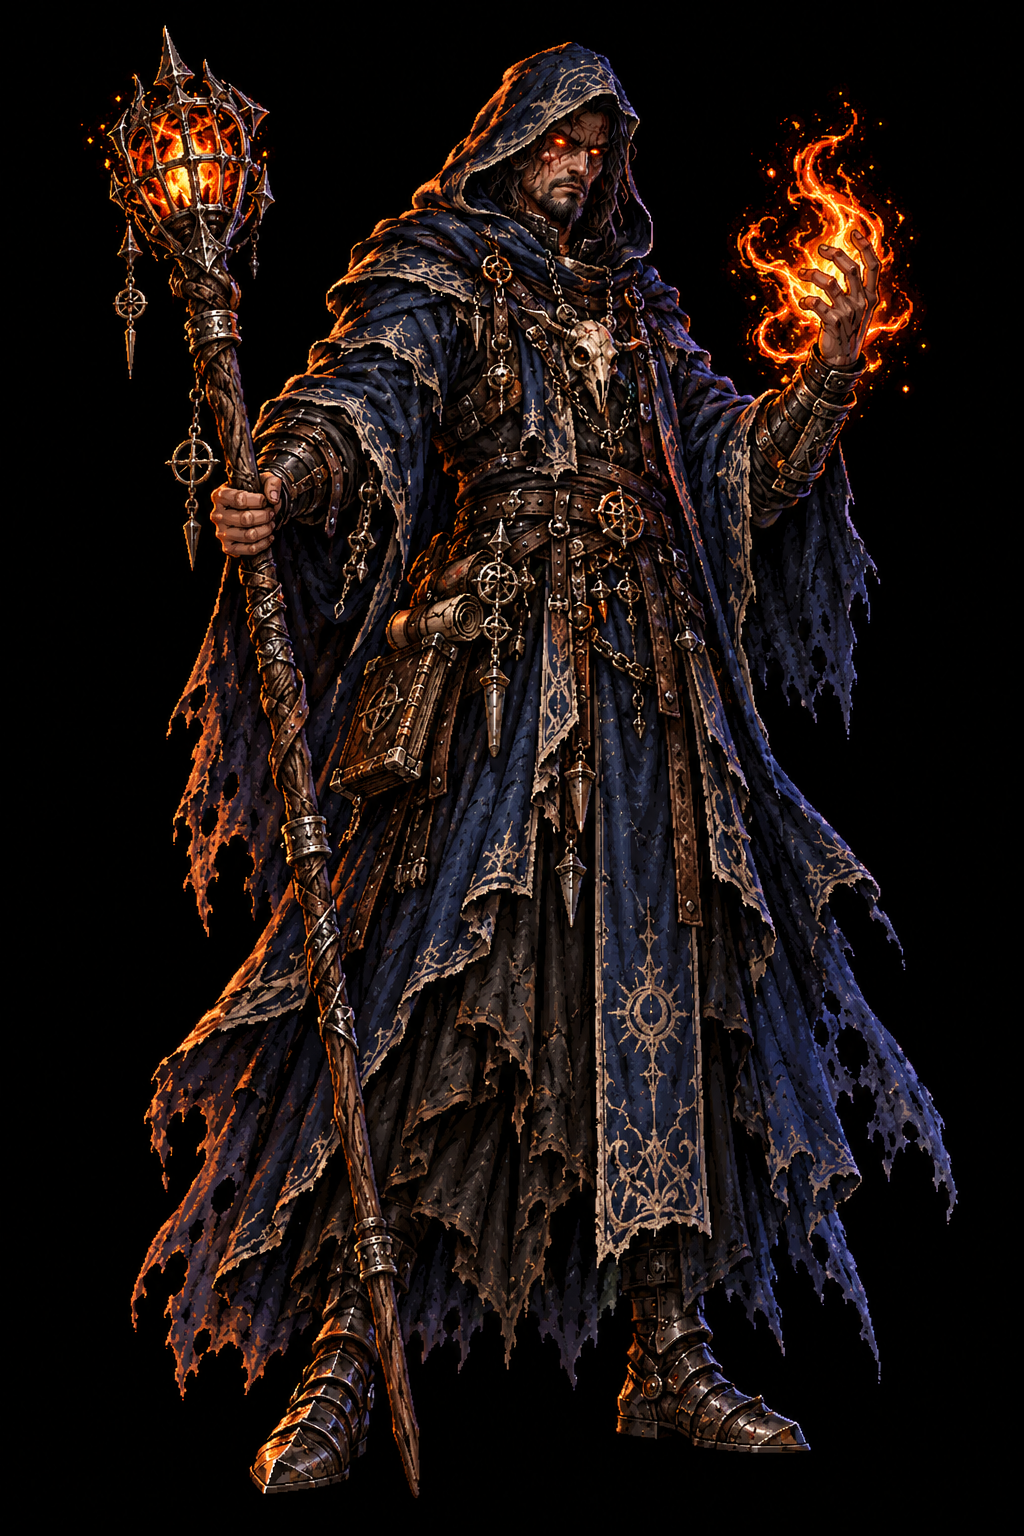
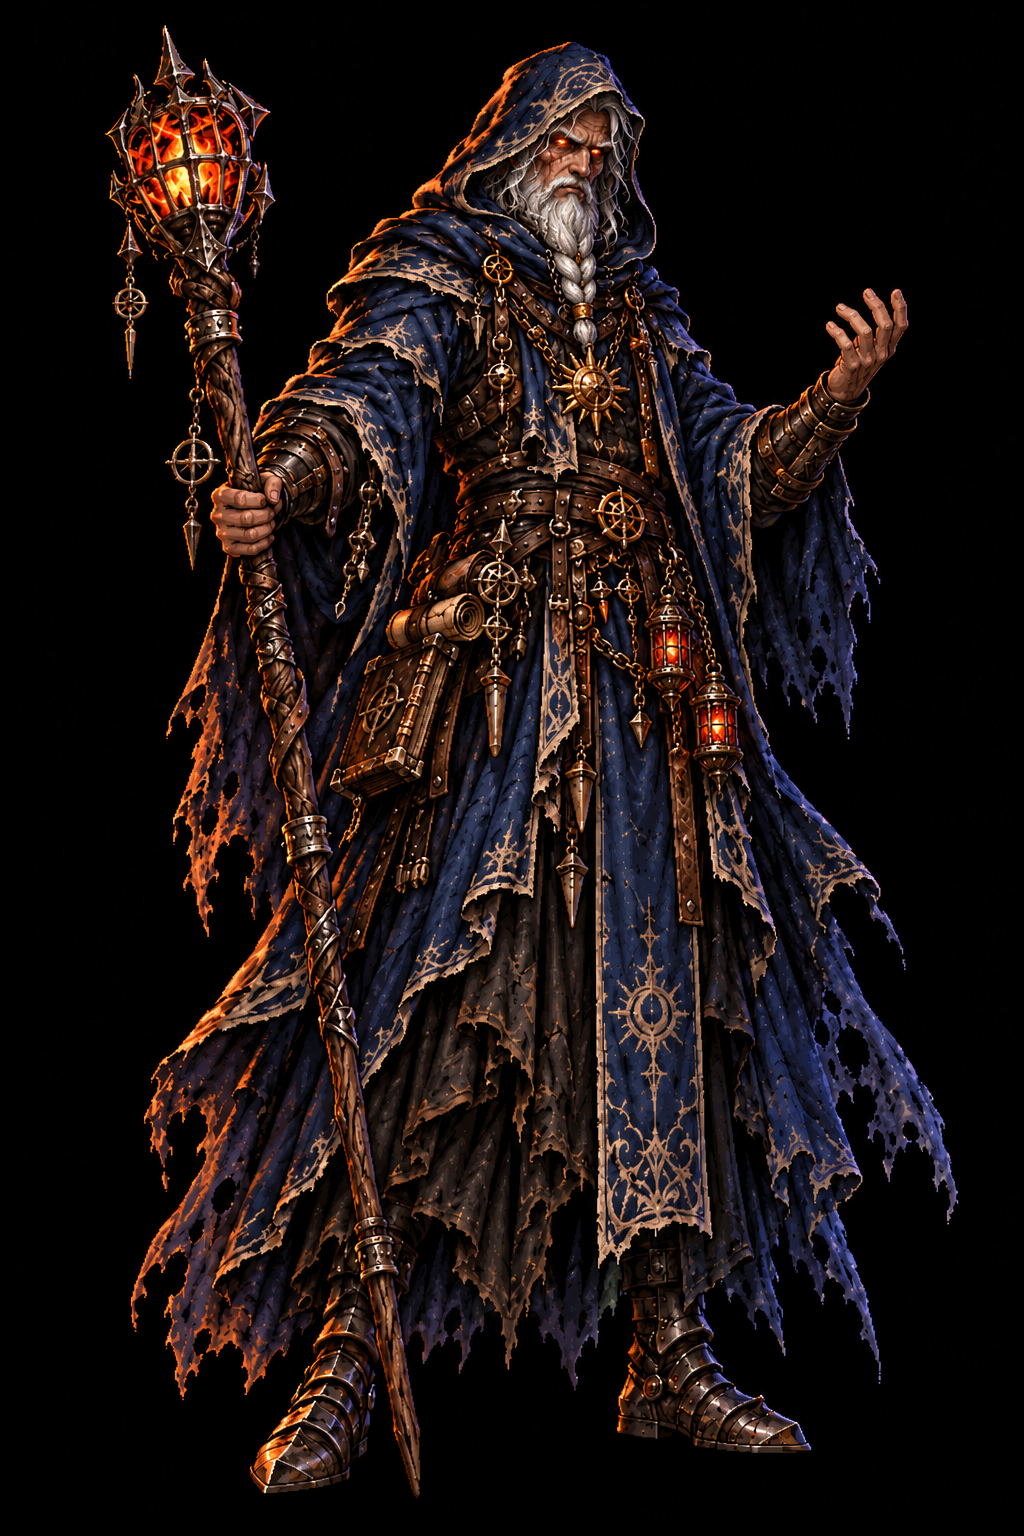
Rogue (Vexa) strips and view, new hero portraits, steel title lettering, hand-off notes for the cloud

diff --git a/src/scenes/HUDScene.js b/src/scenes/HUDScene.js
@@ -12,7 +12,7 @@
 
 import { SETTINGS } from '../config/settings.js';
 import { HUD_ART } from '../view/hudArt.js';
-import { FONT, epicFill } from '../view/fonts.js';
+import { FONT, epicFill, steelFill } from '../view/fonts.js';
 import { DeathScreen } from '../view/DeathScreen.js';
 
 const SERIF = FONT.ui;
@@ -92,7 +92,7 @@ export class HUDScene extends Phaser.Scene {
       .setOrigin(1, 0.5).setStroke('#000000', 6).setVisible(false);
     epicFill(this.go, ['#fff2b0', '#e0a530', '#6a3c08']);
     // section title card (big, centre, fades)
-    this.card = this.add.text(W / 2, H * 0.36, '', { fontFamily: FONT.display, fontSize: '46px', align: 'center' })
+    this.card = this.add.text(W / 2, H * 0.36, '', { fontFamily: FONT.title, fontSize: '48px', align: 'center' })
       .setOrigin(0.5).setStroke('#0a0000', 7).setAlpha(0).setDepth(50);
     this.card.setLetterSpacing?.(4);
     this.cardSub = this.add.text(W / 2, H * 0.36 + 42, '', { fontFamily: FONT.ui, fontSize: '16px', color: '#d8c8a8', align: 'center' })
@@ -110,7 +110,7 @@ export class HUDScene extends Phaser.Scene {
   sectionCard(index, section) {
     const roman = ['I', 'II', 'III', 'IV', 'V', 'VI'][index] ?? `${index + 1}`;
     this.card.setText(section.name);
-    epicFill(this.card, ['#ff7a5a', '#d0101a', '#5a0006']);
+    steelFill(this.card, 7);
     this.cardSub.setText(`${roman}  ·  ${section.objective}`);
     this.objective.setText(`▸ ${section.objective}`);
     this.showGo(false);
@@ -196,10 +196,10 @@ export class HUDScene extends Phaser.Scene {
       const W = SETTINGS.width;
       const H = SETTINGS.height;
       const dim = this.add.rectangle(0, 0, W, H, 0x050000, 0.72).setOrigin(0).setInteractive(); // swallows clicks
-      const title = this.add.text(W / 2, H * 0.24, 'PAUSED', { fontFamily: FONT.display, fontSize: '60px' })
+      const title = this.add.text(W / 2, H * 0.24, 'PAUSED', { fontFamily: FONT.title, fontSize: '64px' })
         .setOrigin(0.5).setStroke('#0a0000', 8);
       title.setLetterSpacing?.(6);
-      epicFill(title, ['#ff7a5a', '#d0101a', '#5a0006']);
+      steelFill(title);
       const menu = this.add.text(W / 2, H * 0.42,
         'P / ENTER  —  RESUME\nR  —  RESTART THE STAGE\nESC  —  CHARACTER SELECT',
         { fontFamily: FONT.ui, fontSize: '18px', color: '#f0e0c0', align: 'center', lineSpacing: 10 })

diff --git a/src/scenes/TitleScene.js b/src/scenes/TitleScene.js
@@ -10,7 +10,7 @@ import { SETTINGS } from '../config/settings.js';
 import { InputManager } from '../core/InputManager.js';
 import { playMusic, toggleMute } from '../core/Music.js';
 import { playSfx } from '../core/Sfx.js';
-import { FONT, epicFill } from '../view/fonts.js';
+import { FONT, epicFill, steelFill } from '../view/fonts.js';
 import { hostRoom, joinRoom, newCode } from '../net/Link.js';
 
 export class TitleScene extends Phaser.Scene {
@@ -49,9 +49,9 @@ export class TitleScene extends Phaser.Scene {
       }
     } else {
       // no cover art (it failed to load): the name on black, so the game still starts
-      const t = this.add.text(W / 2, H * 0.4, 'BLOOD AXE', { fontFamily: FONT.display, fontSize: '80px' })
+      const t = this.add.text(W / 2, H * 0.4, 'BLOOD AXE', { fontFamily: FONT.title, fontSize: '84px' })
         .setOrigin(0.5).setStroke('#0a0000', 9);
-      epicFill(t, ['#ff7a5a', '#d0101a', '#6a0008', '#200002']);
+      steelFill(t, 9);
     }
 
     // embers drifting up through it
@@ -128,8 +128,8 @@ export class TitleScene extends Phaser.Scene {
     const H = SETTINGS.height;
     const L = this.lobby = { state: 'menu', code: '', job: null };
     L.dim = this.add.rectangle(0, 0, W, H, 0x050000, 0.82).setOrigin(0).setDepth(100).setInteractive();
-    L.title = this.add.text(W / 2, H * 0.2, 'ONLINE CO-OP', { fontFamily: FONT.display, fontSize: '44px' }).setOrigin(0.5).setStroke('#0a0000', 7).setDepth(101);
-    epicFill(L.title, ['#ff7a5a', '#d0101a', '#5a0006']);
+    L.title = this.add.text(W / 2, H * 0.2, 'ONLINE CO-OP', { fontFamily: FONT.title, fontSize: '46px' }).setOrigin(0.5).setStroke('#0a0000', 7).setDepth(101);
+    steelFill(L.title, 7);
     L.body = this.add.text(W / 2, H * 0.47, '', { fontFamily: FONT.ui, fontSize: '20px', color: '#f0e0c0', align: 'center', lineSpacing: 12 }).setOrigin(0.5).setStroke('#000000', 4).setDepth(101);
     L.big = this.add.text(W / 2, H * 0.47, '', { fontFamily: FONT.display, fontSize: '72px' }).setOrigin(0.5).setStroke('#0a0000', 8).setDepth(101);
     L.note = this.add.text(W / 2, H * 0.78, '', { fontFamily: FONT.body, fontSize: '16px', color: '#cdb391', align: 'center', lineSpacing: 6 }).setOrigin(0.5).setStroke('#000000', 3).setDepth(101);

diff --git a/src/data/heroStrips.js b/src/data/heroStrips.js
@@ -35,16 +35,16 @@ export const HERO_STRIPS = {
     target: 92, // her low guard stance
     needs: ['run', 'combo1', 'combo2', 'combo3', 'combo4', 'viper', 'moves', 'dodge', 'air', 'react'],
     strips: {
-      run: strip('rogue', 'run', 8, { align: 'median', ground: 'drawn' }),
+      run: strip('rogue', 'run', 8, { align: 'median', ground: 'drawn', target: 90 }),
       combo1: strip('rogue', 'combo1', 4), // guard, cocked, slash, follow-through
       combo2: strip('rogue', 'combo2', 4),
       combo3: strip('rogue', 'combo3', 4),
-      combo4: strip('rogue', 'combo4', 4, { ground: 'drawn' }), // low coil, turn, rising strike (airborne), landing
-      viper: strip('rogue', 'viper', 6),   // crouch, burst, crossing cut, slide, low finish, guard
-      moves: strip('rogue', 'moves', 8),   // kick x3, block, knife draw, knife thrown, mine set, spring away
-      dodge: strip('rogue', 'dodge', 8, { ground: 'drawn' }), // forward roll x4, handspring x4
-      air: strip('rogue', 'air', 8, { ground: 'drawn' }),     // take-off, tuck, vault plant, launched, fan, dive, strike, landing
-      react: strip('rogue', 'react', 8),   // hit, stumble, flying, lying, roll up, kick-through, spring, stance
+      combo4: strip('rogue', 'combo4', 4, { ground: 'drawn', ref: 1, target: 80 }), // low coil, turn, rising strike (airborne), landing
+      viper: strip('rogue', 'viper', 6, { ref: 5 }),   // crouch, burst, crossing cut, slide, low finish, guard
+      moves: strip('rogue', 'moves', 8, { ref: 2 }),   // kick x3, block, knife draw, knife thrown, mine set, spring away
+      dodge: strip('rogue', 'dodge', 8, { ground: 'drawn', ref: 7 }), // forward roll x4, handspring x4
+      air: strip('rogue', 'air', 8, { ground: 'drawn', ref: 7, target: 78 }),     // take-off, tuck, vault plant, launched, fan, dive, strike, landing
+      react: strip('rogue', 'react', 8, { ref: 7, ground: 'drawn' }),   // hit, stumble, flying, lying, roll up, kick-through, spring, stance
     },
   },
 };

diff --git a/src/view/fonts.js b/src/view/fonts.js
@@ -7,6 +7,8 @@
 // smears its sharp edges). Each falls back to Georgia if the fonts couldn't be fetched.
 
 export const FONT = {
+  // the big cut-steel titles (BLOOD AXE, PAUSED, the section cards): see steelFill()
+  title: "'Metal Mania', 'MedievalSharp', Georgia, serif",
   display: "'MedievalSharp', Georgia, serif",
   ui: "'MedievalSharp', Georgia, serif",
   body: "'Cormorant Garamond', Georgia, serif",
@@ -17,10 +19,23 @@ export const FONT = {
 export function loadFonts(timeout = 3000) {
   if (!document.fonts?.load) return Promise.resolve();
   const loads = [
-    "400 64px 'MedievalSharp'",
+    "400 64px 'MedievalSharp'", "400 64px 'Metal Mania'",
     "600 20px 'Cormorant Garamond'", "700 20px 'Cormorant Garamond'",
   ].map((f) => document.fonts.load(f).catch(() => null));
   return Promise.race([Promise.all(loads), new Promise((r) => setTimeout(r, timeout))]);
+}
+
+// Horror-game steel for a title set in FONT.title: brushed metal across the top of the
+// letters, sinking into blood at their feet, a black cut edge and a hard shadow.
+// Call again after changing the text.
+export function steelFill(text, stroke = 8) {
+  const h = text.canvas.height / (text.style.resolution || 1);
+  const g = text.context.createLinearGradient(0, 0, 0, h);
+  for (const [at, c] of [[0.12, '#fafbff'], [0.3, '#b9bfcc'], [0.46, '#6f7684'], [0.52, '#d9dde6'], [0.6, '#8d8f98'], [0.7, '#9a1016'], [0.9, '#3a0004']]) g.addColorStop(at, c);
+  text.setFill(g);
+  text.setStroke('#060202', stroke);
+  text.setShadow(0, 4, 'rgba(0,0,0,0.9)', 6, true, true);
+  return text;
 }
 
 // Gradient fill + soft drop shadow on a Phaser Text, top-to-bottom colours.

diff --git a/src/scenes/SelectScene.js b/src/scenes/SelectScene.js
@@ -14,7 +14,7 @@ import { CHARACTERS } from '../data/characters.js';
 import { InputManager } from '../core/InputManager.js';
 import { playMusic, toggleMute } from '../core/Music.js';
 import { playSfx } from '../core/Sfx.js';
-import { FONT, epicFill } from '../view/fonts.js';
+import { FONT, epicFill, steelFill } from '../view/fonts.js';
 
 // Where the pedestal tops are in the background painting (share of the screen).
 const PEDESTALS = [
@@ -71,10 +71,9 @@ export class SelectScene extends Phaser.Scene {
     }
 
     // title
-    const title = this.add.text(W / 2, 38, 'BLOOD AXE', { fontFamily: FONT.display, fontSize: '54px' })
-      .setOrigin(0.5).setStroke('#0a0000', 8);
-    title.setLetterSpacing?.(5);
-    epicFill(title, ['#ff7a5a', '#d0101a', '#6a0008', '#200002']);
+    const title = this.add.text(W / 2, 38, 'BLOOD AXE', { fontFamily: FONT.title, fontSize: '58px' }).setOrigin(0.5);
+    title.setLetterSpacing?.(4);
+    steelFill(title);
     this.sub = this.add.text(W / 2, 76, '', { fontFamily: FONT.ui, fontSize: '16px' })
       .setOrigin(0.5).setStroke('#000000', 4);
     this.sub.setLetterSpacing?.(8);

diff --git a/src/stage/Stage.js b/src/stage/Stage.js
@@ -243,7 +243,9 @@ export class Stage {
         if (!overlaps(hb, box, f.activeAttack ? (pr.kind === 'wall' ? 60 : 30) : ps.depth)) continue;
         pr.hitBy.add(info);
         // a kick doesn't break a crate or a chest: it sends it skidding off down the lane
-        if (f.activeAttack && info.move.bowl && KICKED.kinds.includes(pr.kind)) {
+        // (Rurik's Sparta kick, the Rogue's crescent kick, the Mage's force blast)
+        const shoves = f.activeAttack ? info.move.bowl || info.move.fx === 'rkick' : true;
+        if (shoves && KICKED.kinds.includes(pr.kind)) {
           if (!pr.fly) {
             pr.fly = { dir: f.facing, left: KICKED.range };
             this.world.events.emit('propKick', { prop: pr, dir: f.facing, by: f });

diff --git a/index.html b/index.html
@@ -7,7 +7,7 @@
   <!-- Fonts (src/view/fonts.js). Offline, the game falls back to Georgia. -->
   <link rel="preconnect" href="https://fonts.googleapis.com">
   <link rel="preconnect" href="https://fonts.gstatic.com" crossorigin>
-  <link rel="stylesheet" href="https://fonts.googleapis.com/css2?family=MedievalSharp&family=Cormorant+Garamond:wght@600;700&display=block">
+  <link rel="stylesheet" href="https://fonts.googleapis.com/css2?family=MedievalSharp&family=Metal+Mania&family=Cormorant+Garamond:wght@600;700&display=block">
   <style>
     html, body { margin: 0; height: 100%; background: #000; overflow: hidden; }
     #game { width: 100%; height: 100%; }

diff --git a/docs/cloud-handoff.md b/docs/cloud-handoff.md
@@ -1,0 +1,60 @@
+# Hand-off to the cloud session (2 October 2026)
+
+The local machine only collects art now (ChatGPT can't be reached from the cloud).
+Everything below is code work for the cloud session.
+
+## What changed locally since `bcbf732`
+
+- **Hero names**: Rurik (warrior, was Ulric), Oryn (mage), Vexa (rogue). Only the
+  display names in `src/data/characters.js`, the README and `docs/itch-controls.md`
+  changed. Ids, file names (`ulric_*.png`) and code comments still say Ulric.
+- **New hero designs** (approved by the user): `docs/art-refs/mage_ref.png` (old, long
+  white braided beard) and `docs/art-refs/rogue_ref.png` (red-haired woman in violet).
+  They also replaced the select-screen portraits `assets/ui/hero-mage.png` and
+  `hero-rogue.png`.
+- **Painted strips** in `assets/sprites/strips/`: `mage_*.png` (9) and `rogue_*.png` (10).
+  Layouts and sizes are in `src/data/heroStrips.js`.
+- **`src/view/StripHeroView.js`** draws a hero from those strips. `BootScene.buildHeroStrips`
+  cuts them; `ArenaScene.makeView` uses the view once every strip in `needs` has loaded.
+  The Mage was checked in the running game. **The Rogue runs on her strips without errors but nobody has looked at her on screen**:
+  her strips arrived after the code was written, and the per-strip `ref` / `target` values in `heroStrips.js` are first guesses from looking at the images.
+- **Kicked crates and chests** (`Stage.updateKicked`, `KICKED`): Rurik's kick, the
+  Rogue's kick or the Mage's force blast sends one skidding; it bursts on the first enemy.
+- **Struck pendulum blades** (`Stage.strikeBlade`, `BLADE.driven`): any hero attack or
+  the Mage's force blast hurls the blade back; it then only cuts enemies.
+- **Steel title lettering**: `FONT.title` (Metal Mania) and `steelFill()` in
+  `src/view/fonts.js`, used for BLOOD AXE, PAUSED, the section cards and ONLINE CO-OP.
+- Logic tests: 82 pass (run in a browser: `import('/tests/logic-test.js')`).
+
+## To do in the cloud
+
+1. **Rogue view**: check every `HERO_ANIMS.rogue` entry against her strips (open each
+   PNG; pose order is in the comments of `heroStrips.js`). Tune per-strip `ref` /
+   `target` so she is the same size in every strip, as was done for the Mage. Her
+   finishers only borrow attack poses.
+2. **Mage changes the user asked for** (in his words where quoted):
+   - Jumping teleports: he can blink while in the air.
+   - "remove fire wall just earth wall": the barrier button only raises the Earthen
+     Bulwark (no tap/hold split, no Infernal Wall).
+   - Chain Lightning "feels like a bee bite, needs to feel like a shark bite", and "needs
+     a three hit combo": make the electric strike a three-press combo that hits far
+     harder (damage, hit-stop, shake, sound, the victim's reaction).
+   - Force push: "press and hold for stronger push upon release" (a charge, like the
+     lightning's overcharge).
+3. **Rogue changes the user asked for**:
+   - Her mark (EXPOSED, `kit.expose`) becomes a mark of death: when ANOTHER player hits
+     the marked enemy it is "a super critical hit, heavy carnage" (big damage, the
+     heaviest gore).
+   - The mark lasts about 15% longer (300 frames now, so about 345).
+   - She can dive (Falling Viper) out of a jump or a double jump. Check `kit.dive.minHeight`
+     and the double-jump path: the user expects it to work from both.
+4. **Mage view polish**: his idle loops the hover strip; finishers borrow cast poses;
+   no back/front views, so moving up or down the screen shows the side view.
+5. The itch build is behind: none of the above is uploaded. Uploading needs the user's
+   go-ahead and has to be done from the local machine.
+
+## Not drawn yet (art, local machine only)
+
+Idle strips, back/front movement views, finisher strips and the Mage's jump strip for
+both heroes. Prompts are in `docs/mage-art-prompts.md` and `docs/rogue-art-prompts.md`;
+their character descriptions are out of date (use the reference images above instead).

diff --git a/docs/itch-controls.md b/docs/itch-controls.md
@@ -18,6 +18,8 @@
 - Rurik: sword combo, cleave, Sparta kick, roll, Firebolt.
 - The Mage (Oryn): staff combo, K = Chain Lightning (hold to overcharge), O = Force Blast, dodge = Blink teleport, U = Arcane Barrier (tap for a fire wall, hold for a stone wall). Barriers only stop enemies.
 - The Rogue (Vexa): a 4-hit dagger combo, K = Viper Strike, O = crescent kick (down + O = sweep; nobody close = throwing knife), U = Widow Mine. Run at a teammate and jump to vault off him. In the air: U = Shuriken Fan, K = Falling Viper. Her precision hits Expose enemies: everyone hits them harder.
+- Kick a crate or a chest (O) and it skids down the lane and bursts on the first enemy it meets.
+- Hit a swinging blade with an attack, or the Mage's Force Blast, and it whips back the other way through your enemies. It can't hurt you while it does.
 - Finishers: get behind an enemy who's running away and press J, K or O. Each hero has their own three.
 
 **Gamepad (Xbox layout)**
